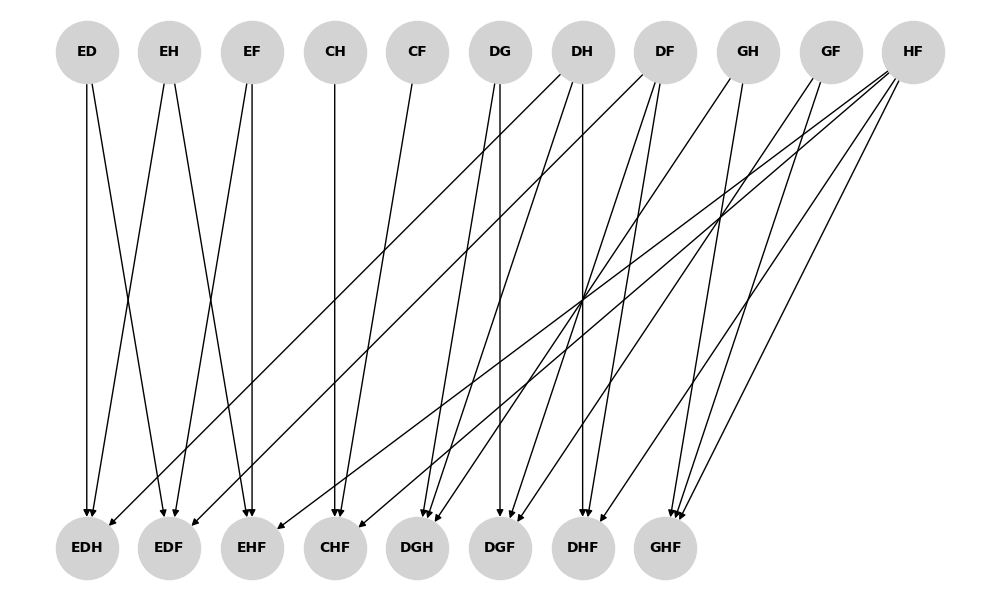
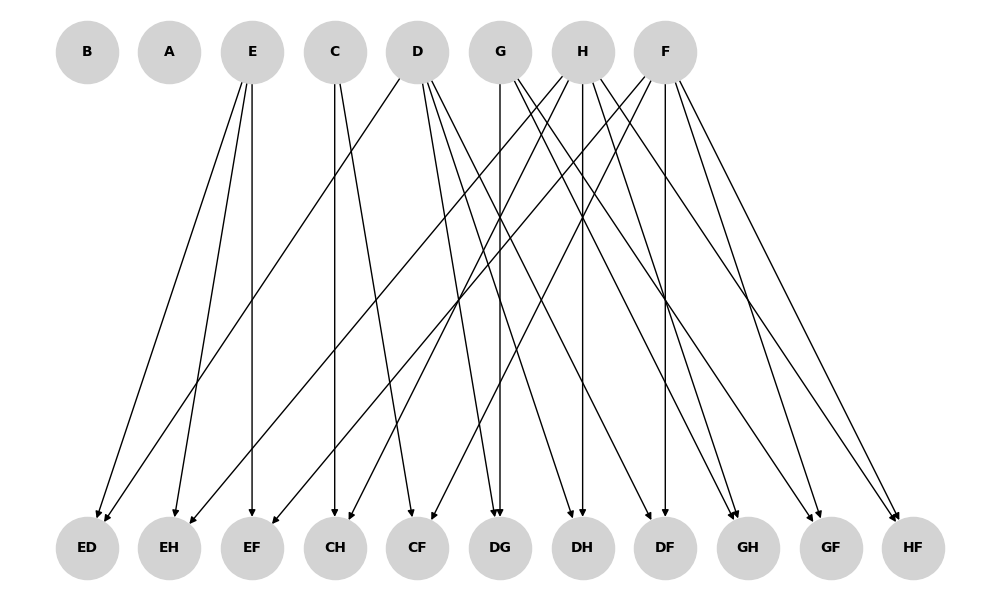
0911-1-OutPutWholeDB

diff --git a/animation.py b/animation.py
@@ -1,7 +1,5 @@
-import re
 import matplotlib.pyplot as plt
 import networkx as nx
-from matplotlib.patches import FancyBboxPatch
 from PIL import Image
 # 定義讀取檔案的函數
 def read_patterns(filename):
@@ -21,6 +19,7 @@ def read_patterns(filename):
                     patterns.append(current_patterns)
                     pids.append(current_pids)
                     gains.append(current_gains)
+                    
                 # 重置暫存
                 current_patterns = []
                 current_pids = []
@@ -29,6 +28,7 @@ def read_patterns(filename):
 
             # 解析行
             parts = line.strip().split('\t')
+            print(parts)
             if len(parts) == 3:
                 pattern_str, pid_str, gain_str = parts
 
@@ -58,11 +58,9 @@ def read_patterns(filename):
 
     return patterns, pids, gains
 
-# 使用範例
-filename = './pattern_mining_result.txt'  # 替換成你的檔案名稱
+filename = 'pattern_mining_result.txt'
 patterns, pids, gains = read_patterns(filename)
 
-# 輸出結果
 print("Patterns:", patterns)
 print("PIDs:", pids)
 print("Gains:", gains)
@@ -76,14 +74,12 @@ f.write(str(level - 1))
 f.close()
 png_file = []
 for current_level in range ( 2, level + 1 ):
-    # 添加節點及其位置
     positions_list = []
     positions = {}
     for i in range ( current_level ):
         temp_list = []
         for j in range ( len(patterns[i]) ):
             temp_list.append ((j, current_level - i + 2))
-        temp_dit = {}
         temp_dit = dict(zip(patterns[i], temp_list))
         positions.update(temp_dit)
 
@@ -94,16 +90,13 @@ for current_level in range ( 2, level + 1 ):
 
     labels = {}
     for i in range ( current_level ):
-        temp_dit = {}
         temp_dit = dict(zip(patterns[i], patterns[i]))
         labels.update(temp_dit)
 
 
-    # Add nodes to the graph
     for node, pos in positions.items():
         G.add_node(node, pos=pos)
 
-    # 添加邊
     edges = []
     for i in range ( current_level - 1 ):
         for j in range ( len(patterns[i]) ):
@@ -117,26 +110,23 @@ for current_level in range ( 2, level + 1 ):
 
     G.add_edges_from(edges)
 
-    # 繪製基礎節點和邊
     plt.figure(figsize=(10, 6))
     nx.draw(G, pos=positions, with_labels=True, labels=labels, node_size=2000, node_color='lightgrey', font_size=10, font_color='black', font_weight='bold')
     plt.title("Graph Representation")
     output_file = "output_image_" + str(current_level-1) + ".png"
     png_file.append(output_file)
-    plt.savefig( output_file , format='png')  # 儲存為 PNG 格式，路徑為當前目錄
+    plt.savefig( output_file , format='png')
 
 frames = [Image.open(png_file[0])]
 
-# 打開其餘的圖片並添加到 frames 中
 for png_file in png_file[1:]:
     img = Image.open(png_file)
     frames.append(img)
 
-# 保存為 GIF 動畫
 frames[0].save(
     "output_gif.gif",
     save_all=True,
     append_images=frames[1:],
-    duration=1000,  # 設定每幀持續的時間（毫秒）
-    loop=0  # 設定循環次數，0 代表無限循環
+    duration=1000,
+    loop=0
 )

diff --git a/src/main/java/Project/Main.java b/src/main/java/Project/Main.java
@@ -308,10 +308,11 @@ public class Main {
         if(first_open){
             try {
                 FileWriter writer = new FileWriter(R_fileName, false); // 覆寫模式，清空文件
-                    writer.write( "item\tPID\tgain" + System.lineSeparator());
+                    writer.write( "pattern\t\tPIDs\t\tgain" + System.lineSeparator());
                 for(EP ei:EI_list){
                     writer.write(ei.pattern + "\t" + ei.dPIDs + "\t" + ei.gain + System.lineSeparator());
                 }
+                writer.write("----------------------------------" + System.lineSeparator());
                 writer.close();
             }   
             catch (IOException e) {
